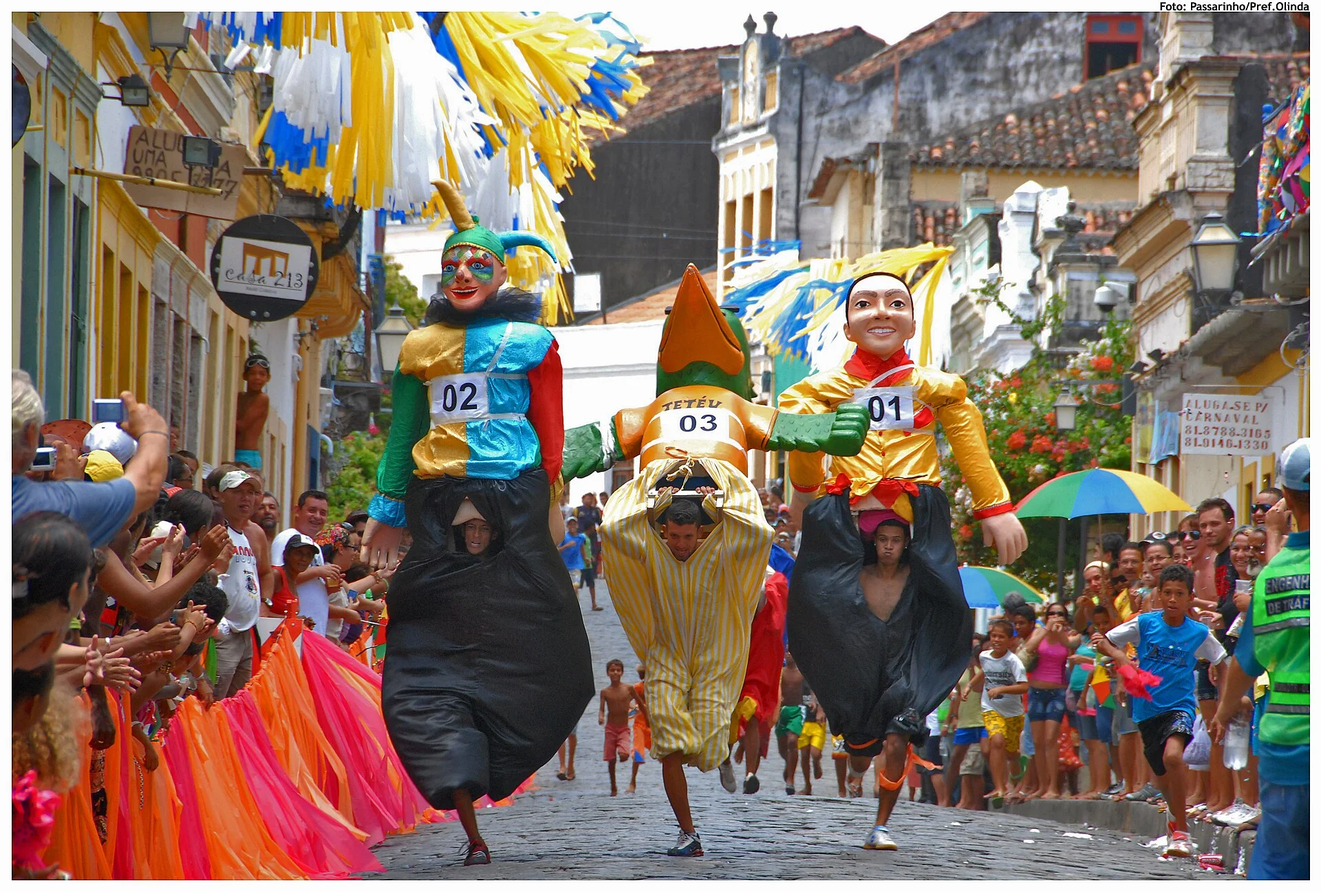
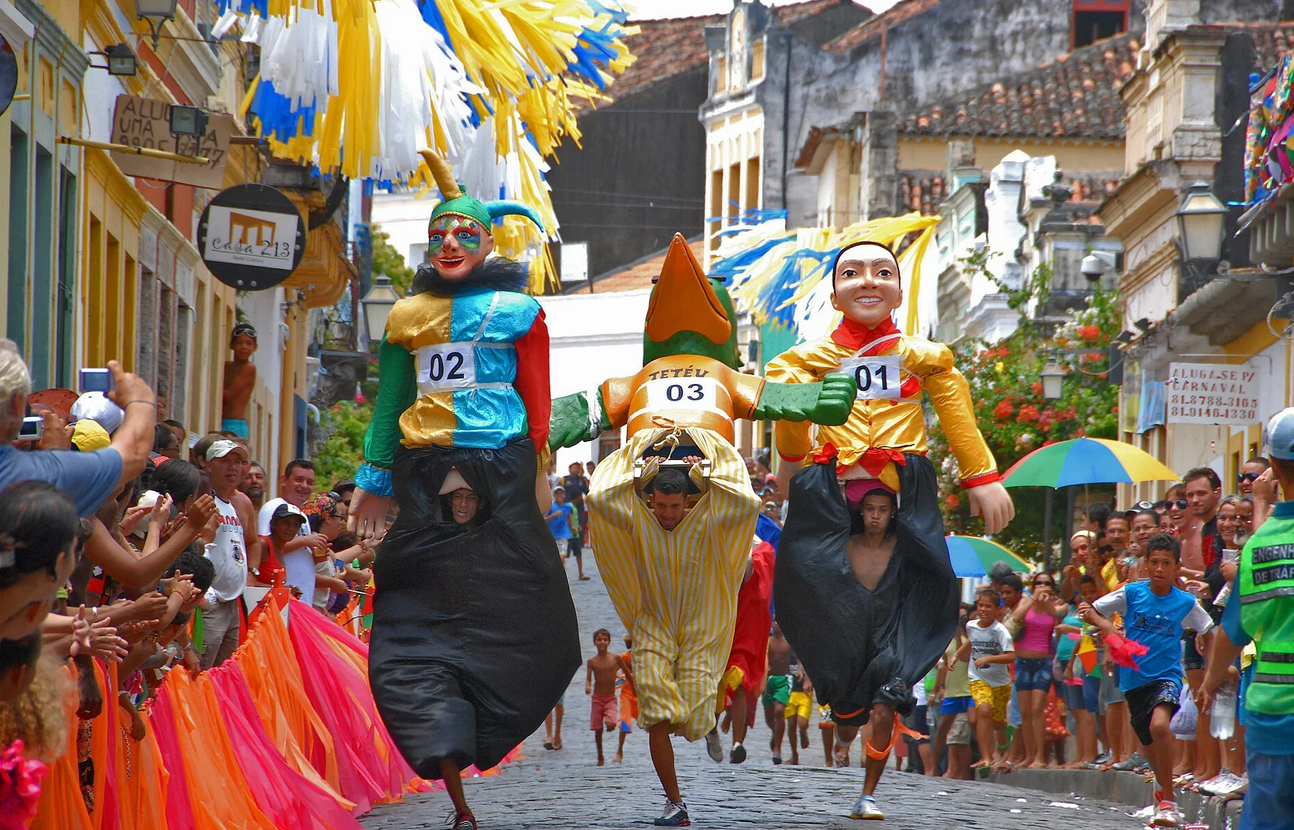
Ajustes de tabela e fotos dos Bonecos Co-Authored-By: Claude Opus 5.5 <noreply@anthropic.com>

diff --git a/index.html b/index.html
@@ -214,7 +214,8 @@ table.cf{width:100%;border-collapse:collapse;margin-top:28px;font-family:var(--b
 .cf td{padding:11px 18px;border-bottom:1px solid var(--line);font:500 20px/1.3 var(--body);color:var(--soft);vertical-align:middle}
 .cf td:first-child{font-weight:800;color:#fff;width:330px}
 .cf tr>*:nth-child(2){width:330px}.cf tr>*:nth-child(3){width:250px}
-.risk{display:inline-block;min-width:92px;text-align:center;font:700 15px/1 var(--mono);text-transform:uppercase;letter-spacing:.06em;padding:8px 10px;border-radius:999px;margin-right:12px}
+.rk{display:flex;align-items:center;gap:12px}
+.risk{flex:0 0 auto;display:inline-block;min-width:92px;text-align:center;font:700 15px/1 var(--mono);text-transform:uppercase;letter-spacing:.06em;padding:8px 10px;border-radius:999px;margin-right:12px}
 .risk.alto{background:#FF4D4D;color:#fff}.risk.medio{background:var(--sun);color:var(--ink)}.risk.baixo{background:#2BD47D;color:var(--ink)}
 .verdict{margin-top:24px;display:grid;grid-template-columns:auto 1fr;gap:28px;align-items:center;background:var(--sun);color:var(--ink);border-radius:18px;padding:24px 30px}
 .verdict b{font:900 50px/.9 var(--display);text-transform:uppercase}
@@ -552,7 +553,7 @@ table.cf{width:100%;border-collapse:collapse;margin-top:28px;font-family:var(--b
   <div class="box">
     <p class="k" data-a="up">Recife, Olinda e Galo · categoria financeira</p>
     <h2 class="t t-s" data-a="mask"><span class="m"><span>Quem já está <span class="y">na festa</span></span></span></h2>
-    <table class="cf"><thead><tr><th>Marca</th><th>Onde</th><th>Categoria</th><th>Risco para a 99Pay</th></tr></thead><tbody data-a="kids" data-d=".4"><tr><td>Bradesco</td><td>Galo (desfile) e Carvalheira na Ladeira</td><td>Banco</td><td><span class="risk medio">médio</span>Banco do desfile. Aguardamos informação sobre a convivência das duas marcas.</td></tr><tr><td>Caixa</td><td>Carnaval de Olinda e Corrida do Galo</td><td>Banco público</td><td><span class="risk medio">médio</span>Apoio institucional. Já está na corrida do Galo.</td></tr><tr><td>Cateno</td><td>Galo da Madrugada</td><td>Meios de pagamento</td><td><span class="risk baixo">baixo</span>Ligada à Cielo e ao BB; não é fintech de conta.</td></tr><tr><td>Mercado Pago</td><td>Carnaval do Recife (2025)</td><td>Fintech</td><td><span class="risk alto">alto</span>Patrocinou com R$ 1,3 mi em 2025. Confirmar 2026 e 2027.</td></tr><tr><td>PagBank</td><td>Cidade Seu Carnaval (RioMar) e Forrozão do Galo</td><td>Fintech / pagamentos</td><td><span class="risk medio">médio</span>Espaço privado e São João do Galo; fora do desfile.</td></tr><tr><td>Esportes da Sorte</td><td>Recife, Olinda e Galo</td><td>Aposta</td><td><span class="risk medio">médio</span>Ocupa a moldura da festa; não é a mesma categoria.</td></tr><tr><td>Nubank, Itaú, BB, Inter, C6, PicPay</td><td>Sem registro</td><td>Bancos e fintechs</td><td><span class="risk baixo">baixo</span>Não encontramos patrocínio na festa pública em 2025 e 2026.</td></tr></tbody></table>
+    <table class="cf"><thead><tr><th>Marca</th><th>Onde</th><th>Categoria</th><th>Risco para a 99Pay</th></tr></thead><tbody data-a="kids" data-d=".4"><tr><td>Bradesco</td><td>Galo (desfile) e Carvalheira na Ladeira</td><td>Banco</td><td><div class="rk"><span class="risk medio">médio</span><span>Banco do desfile. Aguardamos informação sobre a convivência das duas marcas.</span></div></td></tr><tr><td>Caixa</td><td>Carnaval de Olinda e Corrida do Galo</td><td>Banco público</td><td><div class="rk"><span class="risk medio">médio</span><span>Apoio institucional. Já está na corrida do Galo.</span></div></td></tr><tr><td>Cateno</td><td>Galo da Madrugada</td><td>Meios de pagamento</td><td><div class="rk"><span class="risk baixo">baixo</span><span>Ligada à Cielo e ao BB; não é fintech de conta.</span></div></td></tr><tr><td>Mercado Pago</td><td>Carnaval do Recife (2025)</td><td>Fintech</td><td><div class="rk"><span class="risk alto">alto</span><span>Patrocinou com R$ 1,3 mi em 2025. Confirmar 2026 e 2027.</span></div></td></tr><tr><td>PagBank</td><td>Cidade Seu Carnaval (RioMar) e Forrozão do Galo</td><td>Fintech / pagamentos</td><td><div class="rk"><span class="risk medio">médio</span><span>Espaço privado e São João do Galo; fora do desfile.</span></div></td></tr><tr><td>Esportes da Sorte</td><td>Recife, Olinda e Galo</td><td>Aposta</td><td><div class="rk"><span class="risk medio">médio</span><span>Ocupa a moldura da festa; não é a mesma categoria.</span></div></td></tr><tr><td>Nubank, Itaú, BB, Inter, C6, PicPay</td><td>Sem registro</td><td>Bancos e fintechs</td><td><div class="rk"><span class="risk baixo">baixo</span><span>Não encontramos patrocínio na festa pública em 2025 e 2026.</span></div></td></tr></tbody></table>
     <div class="verdict" data-a="up" data-d="1.2"><b>Outra fintech?</b><p>O Mercado Pago patrocinou o Recife em 2025 com R$ 1,3 mi; falta confirmar 2026 e 2027. O PagBank está no RioMar, espaço privado, e no Forrozão do Galo. No desfile do Galo e no Carnaval de Olinda não encontramos fintech de conta ou investimento.</p></div>
   </div>
 </section>
